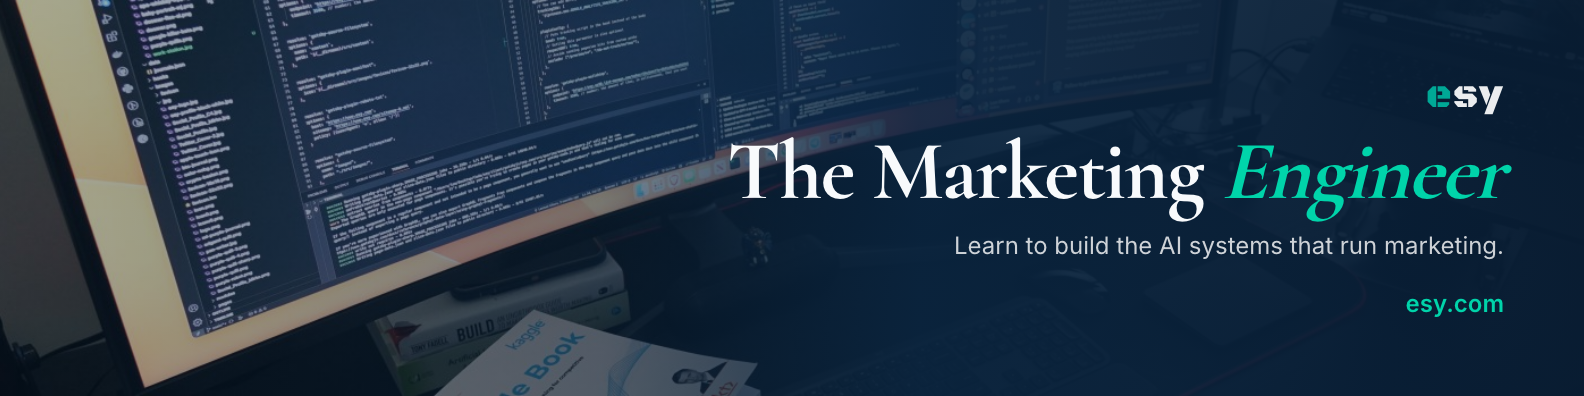
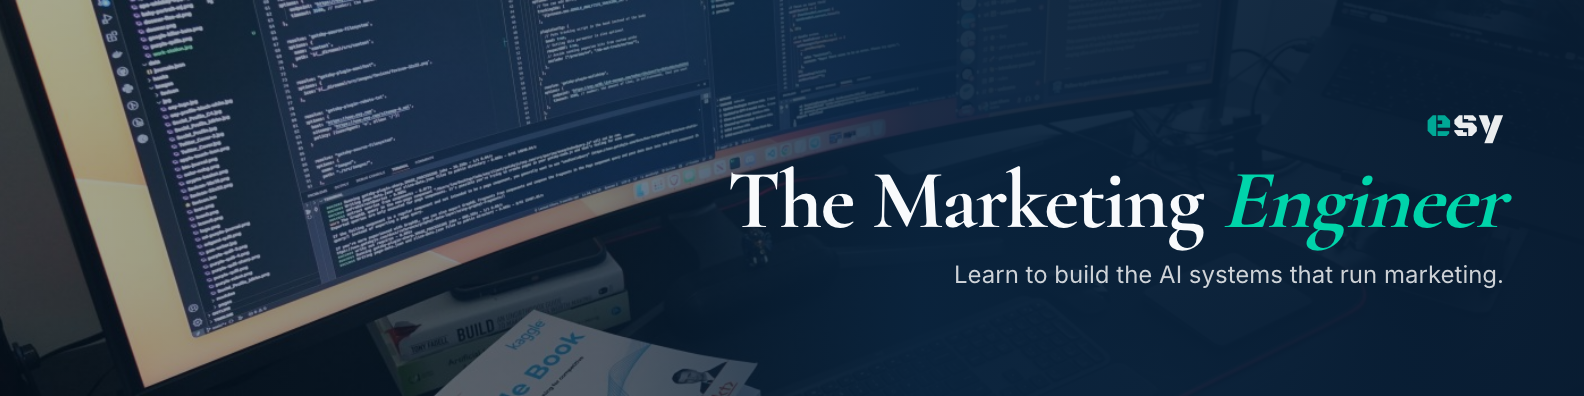
copy: drop esy.com from G · Desk; the wordmark carries the brand

Changed region(s): [[0.464, 0.3333, 0.959, 0.7273], [0.8971, 0.2121, 0.959, 0.3636], [0.8662, 0.7576, 0.959, 0.7879]]

diff --git a/src/components/LinkedInBanner/LinkedInBanner.tsx b/src/components/LinkedInBanner/LinkedInBanner.tsx
@@ -231,8 +231,8 @@ function Desk() {
         <div className="lib-serif lib-desk-name">
           The Marketing <em>Engineer</em>
         </div>
+        {/* No URL: the wordmark already names the brand, and the profile's website link is the clickable one. */}
         <div className="lib-desk-sub">Learn to build the AI systems that run marketing.</div>
-        <div className="lib-desk-url">esy.com</div>
       </div>
     </div>
   );

diff --git a/src/components/LinkedInBanner/LinkedInBanner.css b/src/components/LinkedInBanner/LinkedInBanner.css
@@ -153,4 +153,3 @@
 .lib-desk-name { font-size: 84px; line-height: 1; color: #F8FAFC; white-space: nowrap; }
 .lib-desk-name em { color: var(--lib-jade-bright); }
 .lib-desk-sub { margin-top: 14px !important; font-size: 24px; color: rgba(255, 255, 255, 0.8); }
-.lib-desk-url { margin-top: 20px !important; font-size: 24px; font-weight: 600; color: var(--lib-jade-bright); }
